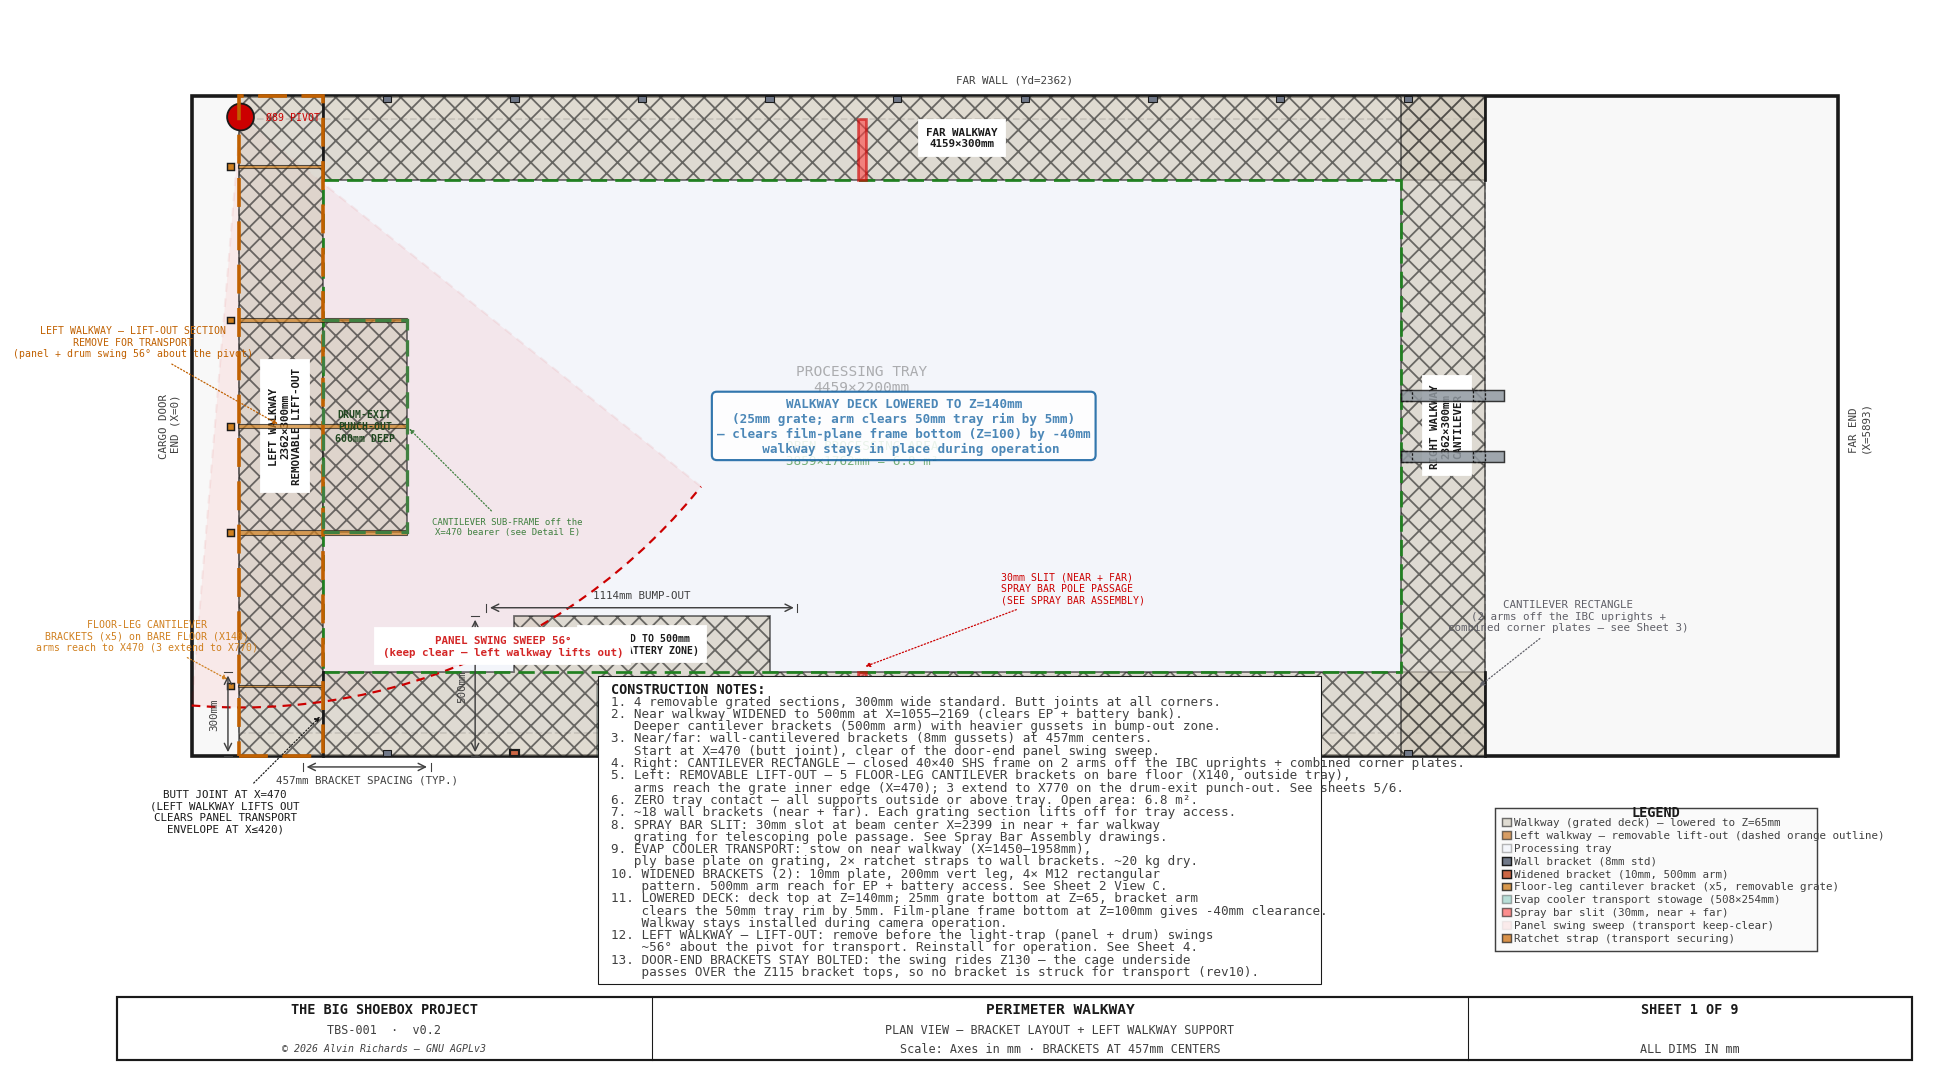
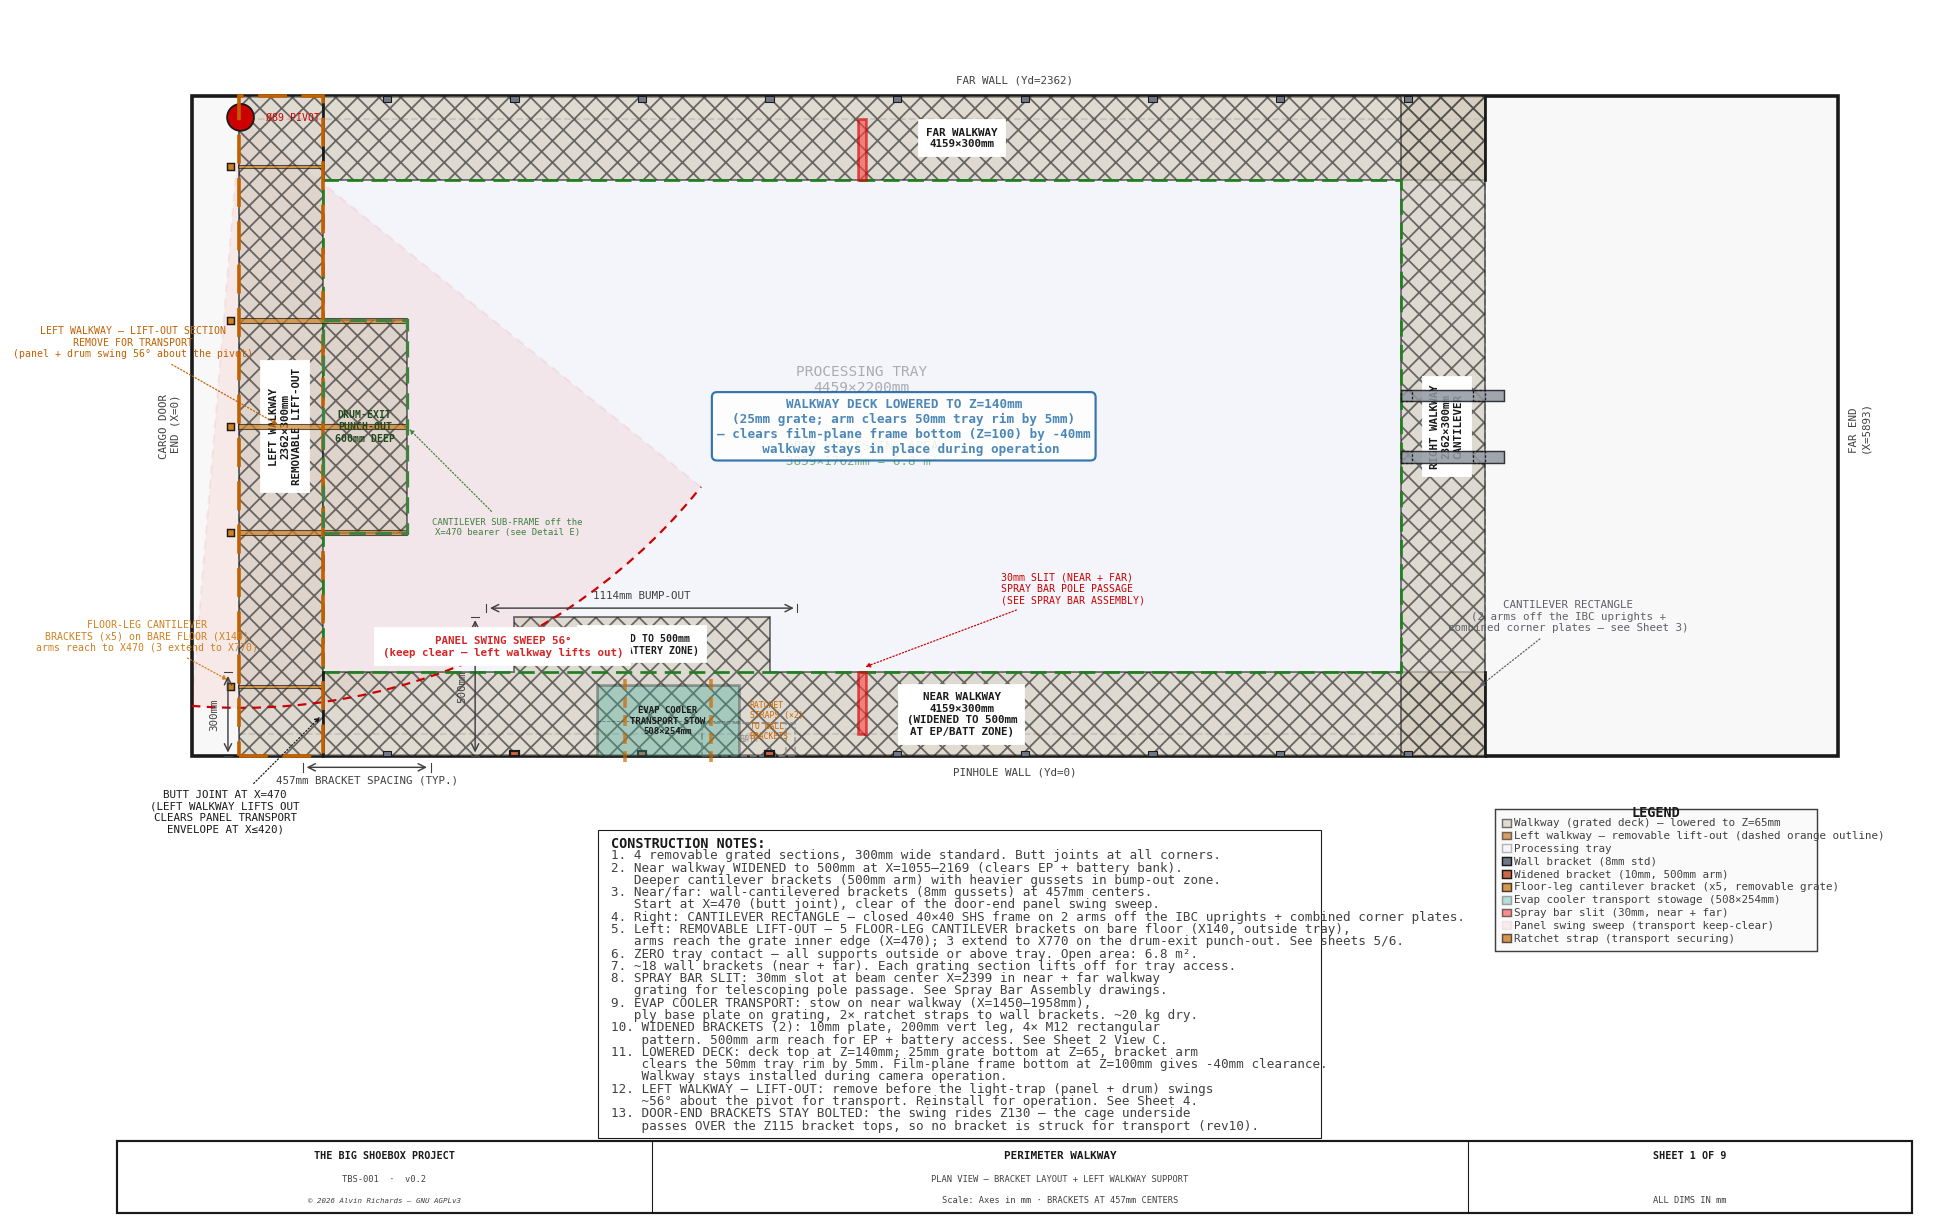
walkway-sheet1: drop construction notes clear of the plan
The 26-line CONSTRUCTION NOTES block was anchored at notes_top = -PAD_Y_BOT +
350 + (len-1)*44, which with PAD_Y_BOT=1100 evaluated to +350 — pushing the box
top up into the container plan (Y=0..2388) and overlapping the near-wall
features. Enlarge PAD_Y_BOT 1100->1650 so the block drops below Y=0 into the
bottom pad, clear of the plan and still above the title block.

diff --git a/src/generators/generate_walkway_diagram.py b/src/generators/generate_walkway_diagram.py
@@ -642,7 +642,7 @@ def sheet1():
 
     # ── Figure ───────────────────────────────────────────────────────────────
     PAD_X = 300
-    PAD_Y_BOT = 1100  # extra room below for notes + title block
+    PAD_Y_BOT = 1650  # extra room below for notes + title block (notes drop clear of the plan)
     PAD_Y_TOP = 300
     fig, ax = plt.subplots(figsize=(18, 14))
     fig.patch.set_facecolor(BG)
